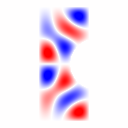
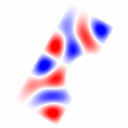
doc

diff --git a/doc/marimba.tex b/doc/marimba.tex
@@ -76,11 +76,11 @@ end
 \begin{verbatim}
 # try the code above
 w = 128;
-M = rbar_image(.9, .4,  .5, .4,  1, pi/2,   w);
-imwrite(M, "bar.png")
+M = rbar_image(.9, .4,  .5, .4,  1, pi/3,   w);
+imwrite(M, "f/bar.png")
 \end{verbatim}
 
-\includegraphics{bar.png}\verb+bar.png+
+\includegraphics{f/bar.png}\verb+bar.png+
 
 \begin{verbatim}
 # build the incidence matrix of a grid graph
@@ -92,18 +92,16 @@ end
 \end{verbatim}
 
 \begin{verbatim}
-# built a grid graph (whole space)
+# build a grid graph (whole space) and the laplacian of shape M
 B = grid_incidence(w, w);
-P = speye(w*w, w*w)(find(M(:)),:);
-PB = B*P';
-L = -PB' * PB;
-size(B)
-size(P)
-size(PB)
-size(L)
-[V,D,flag] = eigs(-L, 40, "be");
-flag
-sqrt(diag(D)/D(1,1))'
+P = speye(w*w, w*w)(find(M(:)),:); # binary weights
+PB = B*P';                         # weighted first derivative
+L = -PB' * PB;                     # laplacian matrix (second derivative)
+\end{verbatim}
+
+\begin{verbatim}
+# study the vibration modes of this shape
+[V,D,flag] = eigs(-L, 40, "be");   # compute both ends of the eigensystem
 v1 = P'*V(:,1);
 v2 = P'*V(:,2);
 v3 = P'*V(:,3);
@@ -130,63 +128,63 @@ vm3 = P'*V(:,18);
 vm4 = P'*V(:,17);
 vm5 = P'*V(:,16);
 vm6 = P'*V(:,15);
-max(v1)
-max(v2)
-max(v3)
-max(v4)
-max(v5)
-max(v6)
-1
-max(vm1)
-max(vm2)
-max(vm3)
-1
-min(v1)
-min(v2)
-min(v3)
-min(v4)
-min(v5)
-min(v6)
-1
-min(vm1)
-min(vm2)
-min(vm3)
-imwrite(reshape(255*(v1-min(v1))/(max(v1)-min(v1)),w,w), "marimba_v1.png")
-imwrite(reshape(255*(v2-min(v2))/(max(v2)-min(v2)),w,w), "marimba_v2.png")
-imwrite(reshape(255*(v3-min(v3))/(max(v3)-min(v3)),w,w), "marimba_v3.png")
-imwrite(reshape(255*(v4-min(v4))/(max(v4)-min(v4)),w,w), "marimba_v4.png")
-imwrite(reshape(255*(v5-min(v5))/(max(v5)-min(v5)),w,w), "marimba_v5.png")
-imwrite(reshape(255*(v6-min(v6))/(max(v6)-min(v6)),w,w), "marimba_v6.png")
-imwrite(reshape(255*(vm1-min(vm1))/(max(vm1)-min(vm1)),w,w), "marimba_vm1.png")
-imwrite(reshape(255*(vm2-min(vm2))/(max(vm2)-min(vm2)),w,w), "marimba_vm2.png")
-imwrite(reshape(255*(vm3-min(vm3))/(max(vm3)-min(vm3)),w,w), "marimba_vm3.png")
-iio_write("marimba_v01.tiff", reshape(v1,w,w));
-iio_write("marimba_v02.tiff", reshape(v2,w,w));
-iio_write("marimba_v03.tiff", reshape(v3,w,w));
-iio_write("marimba_v04.tiff", reshape(v4,w,w));
-iio_write("marimba_v05.tiff", reshape(v5,w,w));
-iio_write("marimba_v06.tiff", reshape(v6,w,w));
-iio_write("marimba_v07.tiff", reshape(v7,w,w));
-iio_write("marimba_v08.tiff", reshape(v8,w,w));
-iio_write("marimba_v09.tiff", reshape(v9,w,w));
-iio_write("marimba_v10.tiff", reshape(v10,w,w));
-iio_write("marimba_v11.tiff", reshape(v11,w,w));
-iio_write("marimba_v12.tiff", reshape(v12,w,w));
-iio_write("marimba_v13.tiff", reshape(v13,w,w));
-iio_write("marimba_v14.tiff", reshape(v14,w,w));
-iio_write("marimba_v15.tiff", reshape(v15,w,w));
-iio_write("marimba_v16.tiff", reshape(v16,w,w));
-iio_write("marimba_v17.tiff", reshape(v17,w,w));
-iio_write("marimba_v18.tiff", reshape(v18,w,w));
-iio_write("marimba_v19.tiff", reshape(v19,w,w));
-iio_write("marimba_v20.tiff", reshape(v20,w,w));
-iio_write("marimba_V1.tiff", reshape(vm1,w,w));
-iio_write("marimba_V2.tiff", reshape(vm2,w,w));
-iio_write("marimba_V3.tiff", reshape(vm3,w,w));
-iio_write("marimba_V4.tiff", reshape(vm4,w,w));
-iio_write("marimba_V5.tiff", reshape(vm5,w,w));
-iio_write("marimba_V6.tiff", reshape(vm6,w,w));
+imwrite(reshape(255*(v1-min(v1))/(max(v1)-min(v1)),w,w), "f/marimba_v1.png")
+imwrite(reshape(255*(v2-min(v2))/(max(v2)-min(v2)),w,w), "f/marimba_v2.png")
+imwrite(reshape(255*(v3-min(v3))/(max(v3)-min(v3)),w,w), "f/marimba_v3.png")
+imwrite(reshape(255*(v4-min(v4))/(max(v4)-min(v4)),w,w), "f/marimba_v4.png")
+imwrite(reshape(255*(v5-min(v5))/(max(v5)-min(v5)),w,w), "f/marimba_v5.png")
+imwrite(reshape(255*(v6-min(v6))/(max(v6)-min(v6)),w,w), "f/marimba_v6.png")
+imwrite(reshape(255*(vm1-min(vm1))/(max(vm1)-min(vm1)),w,w), "f/marimba_vm1.png")
+imwrite(reshape(255*(vm2-min(vm2))/(max(vm2)-min(vm2)),w,w), "f/marimba_vm2.png")
+imwrite(reshape(255*(vm3-min(vm3))/(max(vm3)-min(vm3)),w,w), "f/marimba_vm3.png")
+iio_write("f/marimba_v01.tiff", reshape(v1,w,w));
+iio_write("f/marimba_v02.tiff", reshape(v2,w,w));
+iio_write("f/marimba_v03.tiff", reshape(v3,w,w));
+iio_write("f/marimba_v04.tiff", reshape(v4,w,w));
+iio_write("f/marimba_v05.tiff", reshape(v5,w,w));
+iio_write("f/marimba_v06.tiff", reshape(v6,w,w));
+iio_write("f/marimba_v07.tiff", reshape(v7,w,w));
+iio_write("f/marimba_v08.tiff", reshape(v8,w,w));
+iio_write("f/marimba_v09.tiff", reshape(v9,w,w));
+iio_write("f/marimba_v10.tiff", reshape(v10,w,w));
+iio_write("f/marimba_v11.tiff", reshape(v11,w,w));
+iio_write("f/marimba_v12.tiff", reshape(v12,w,w));
+iio_write("f/marimba_v13.tiff", reshape(v13,w,w));
+iio_write("f/marimba_v14.tiff", reshape(v14,w,w));
+iio_write("f/marimba_v15.tiff", reshape(v15,w,w));
+iio_write("f/marimba_v16.tiff", reshape(v16,w,w));
+iio_write("f/marimba_v17.tiff", reshape(v17,w,w));
+iio_write("f/marimba_v18.tiff", reshape(v18,w,w));
+iio_write("f/marimba_v19.tiff", reshape(v19,w,w));
+iio_write("f/marimba_v20.tiff", reshape(v20,w,w));
+iio_write("f/marimba_V1.tiff", reshape(vm1,w,w));
+iio_write("f/marimba_V2.tiff", reshape(vm2,w,w));
+iio_write("f/marimba_V3.tiff", reshape(vm3,w,w));
+iio_write("f/marimba_V4.tiff", reshape(vm4,w,w));
+iio_write("f/marimba_V5.tiff", reshape(vm5,w,w));
+iio_write("f/marimba_V6.tiff", reshape(vm6,w,w));
 \end{verbatim}
+
+\includegraphics[width=0.15\linewidth]{f/marimba_v01.png}\verb+v01+\\
+\includegraphics[width=0.15\linewidth]{f/marimba_v02.png}\verb+v02+\\
+\includegraphics[width=0.15\linewidth]{f/marimba_v03.png}\verb+v03+\\
+\includegraphics[width=0.15\linewidth]{f/marimba_v04.png}\verb+v04+\\
+\includegraphics[width=0.15\linewidth]{f/marimba_v05.png}\verb+v05+\\
+\includegraphics[width=0.15\linewidth]{f/marimba_v06.png}\verb+v06+\\
+\includegraphics[width=0.15\linewidth]{f/marimba_v07.png}\verb+v07+\\
+\includegraphics[width=0.15\linewidth]{f/marimba_v08.png}\verb+v08+\\
+\includegraphics[width=0.15\linewidth]{f/marimba_v09.png}\verb+v09+\\
+\includegraphics[width=0.15\linewidth]{f/marimba_v10.png}\verb+v10+\\
+\includegraphics[width=0.15\linewidth]{f/marimba_v11.png}\verb+v11+\\
+\includegraphics[width=0.15\linewidth]{f/marimba_v12.png}\verb+v12+\\
+\includegraphics[width=0.15\linewidth]{f/marimba_v13.png}\verb+v13+\\
+\includegraphics[width=0.15\linewidth]{f/marimba_v14.png}\verb+v14+\\
+\includegraphics[width=0.15\linewidth]{f/marimba_v15.png}\verb+v15+\\
+\includegraphics[width=0.15\linewidth]{f/marimba_v16.png}\verb+v16+\\
+\includegraphics[width=0.15\linewidth]{f/marimba_v17.png}\verb+v17+\\
+\includegraphics[width=0.15\linewidth]{f/marimba_v18.png}\verb+v18+\\
+\includegraphics[width=0.15\linewidth]{f/marimba_v19.png}\verb+v19+\\
+\includegraphics[width=0.15\linewidth]{f/marimba_v20.png}\verb+v20+\\
 
 \end{document}
 
